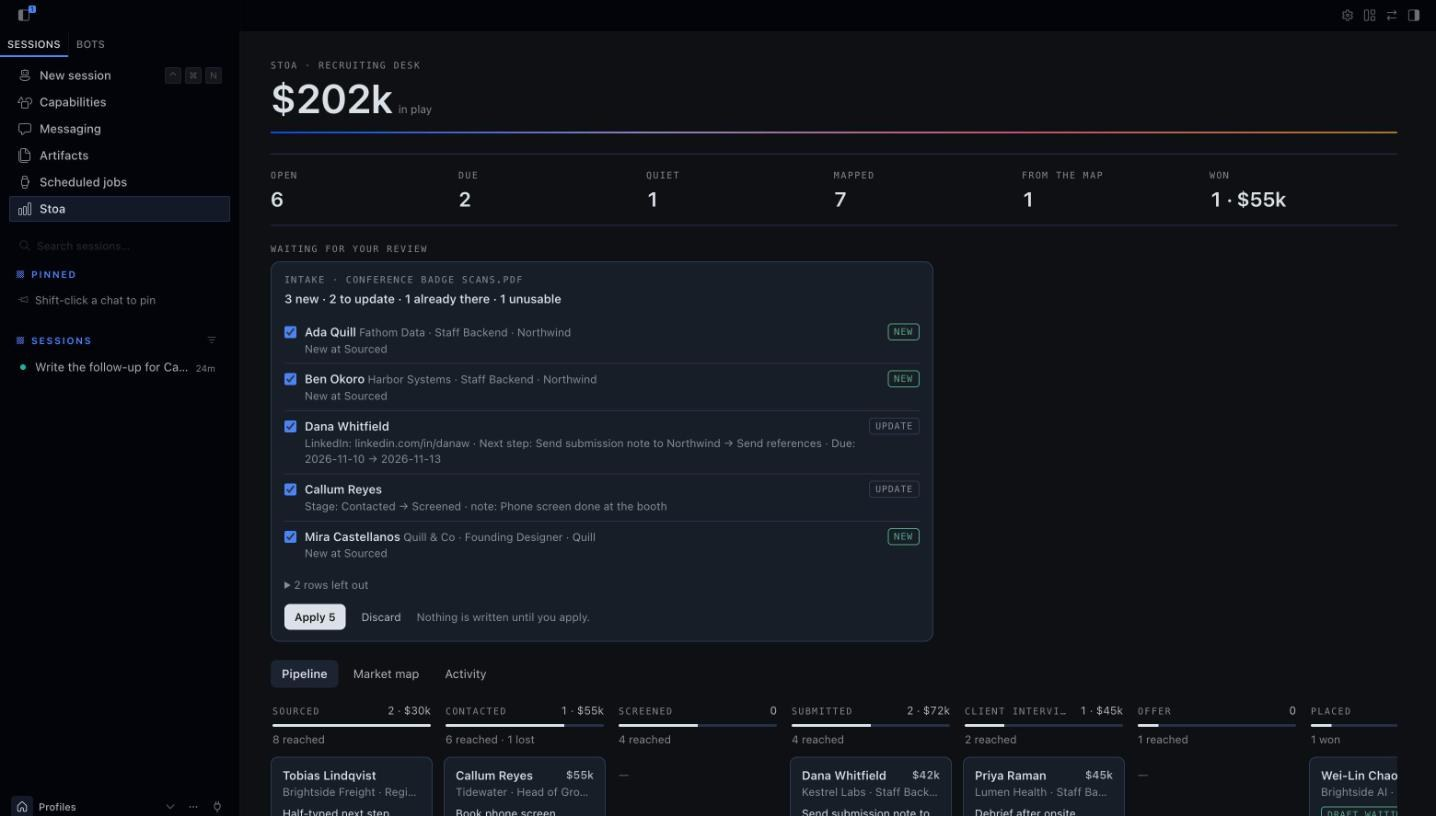
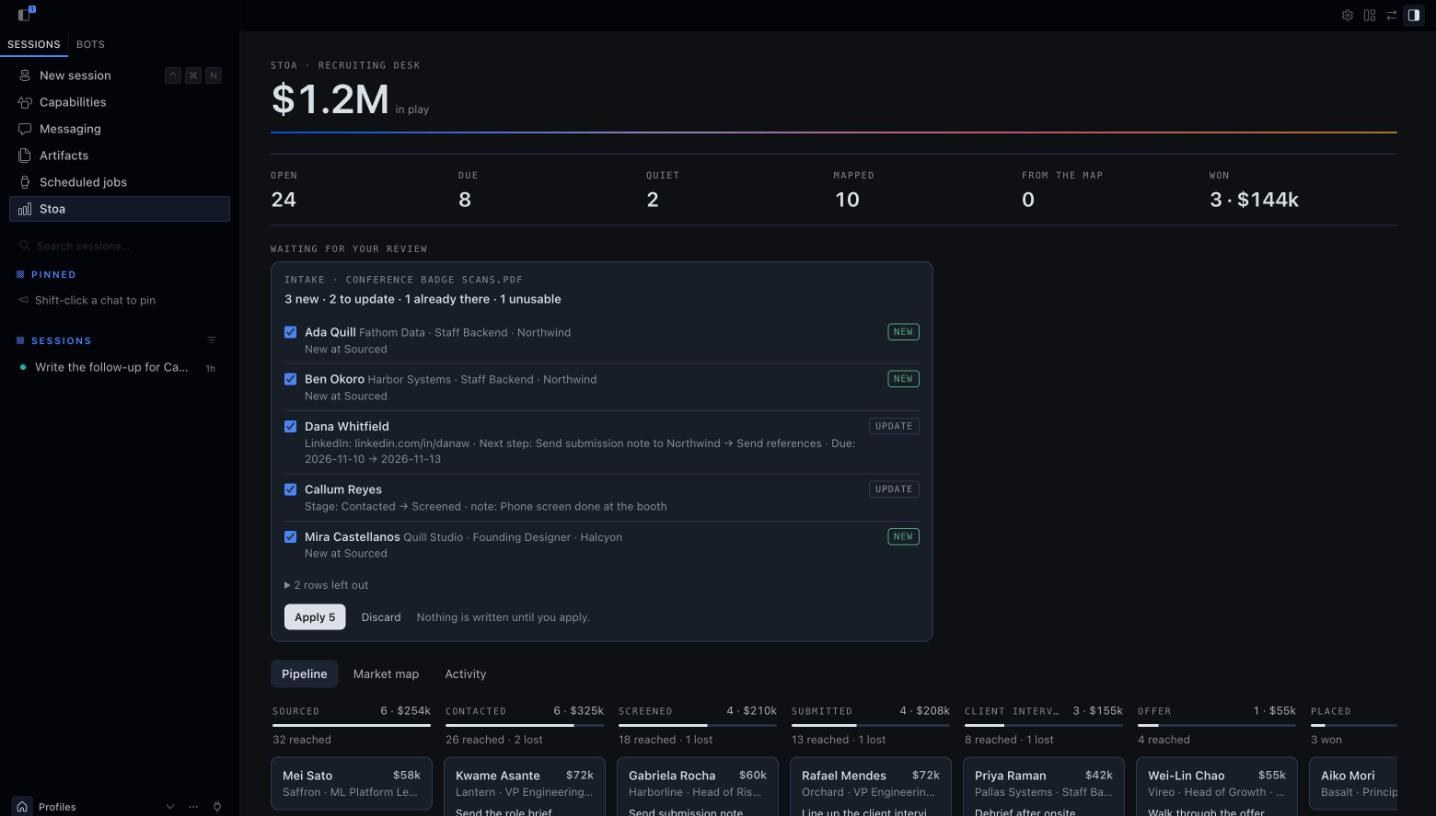
Screenshots re-shot with the two worked examples; README shows both

diff --git a/README.md b/README.md
@@ -60,6 +60,14 @@ The sample data shows two businesses at a realistic size. Everything in it is ma
 Loading one switches the desk to its playbook and replaces the other, so the board always reads
 as one business. `hermes stoa demo --clear` removes the sample data and leaves your own records.
 
+The recruiting agency:
+
+![The recruiting example: $1.2M in open fees across eight searches](docs/desktop-pipeline.jpg)
+
+The company selling a fraud prevention tool:
+
+![The software example: $2.5M of open pipeline](docs/desktop-saas.jpg)
+
 ## Talk to it, and watch the desk change
 
 In the Hermes Desktop app and the Webapp, Stoa sits beside the conversation.
@@ -83,9 +91,7 @@ In the Hermes Desktop app and the Webapp, Stoa sits beside the conversation.
 Switch it on once under **Capabilities → Plugins → Stoa**. It is drawn with the app's own theme
 variables, so it follows whatever theme you run.
 
-![The pipeline page](docs/desktop-pipeline.jpg)
-
-![The market map page](docs/desktop-market.jpg)
+![The market map page, here for the fraud prevention example](docs/desktop-market.jpg)
 
 ## The web dashboard tab
 
